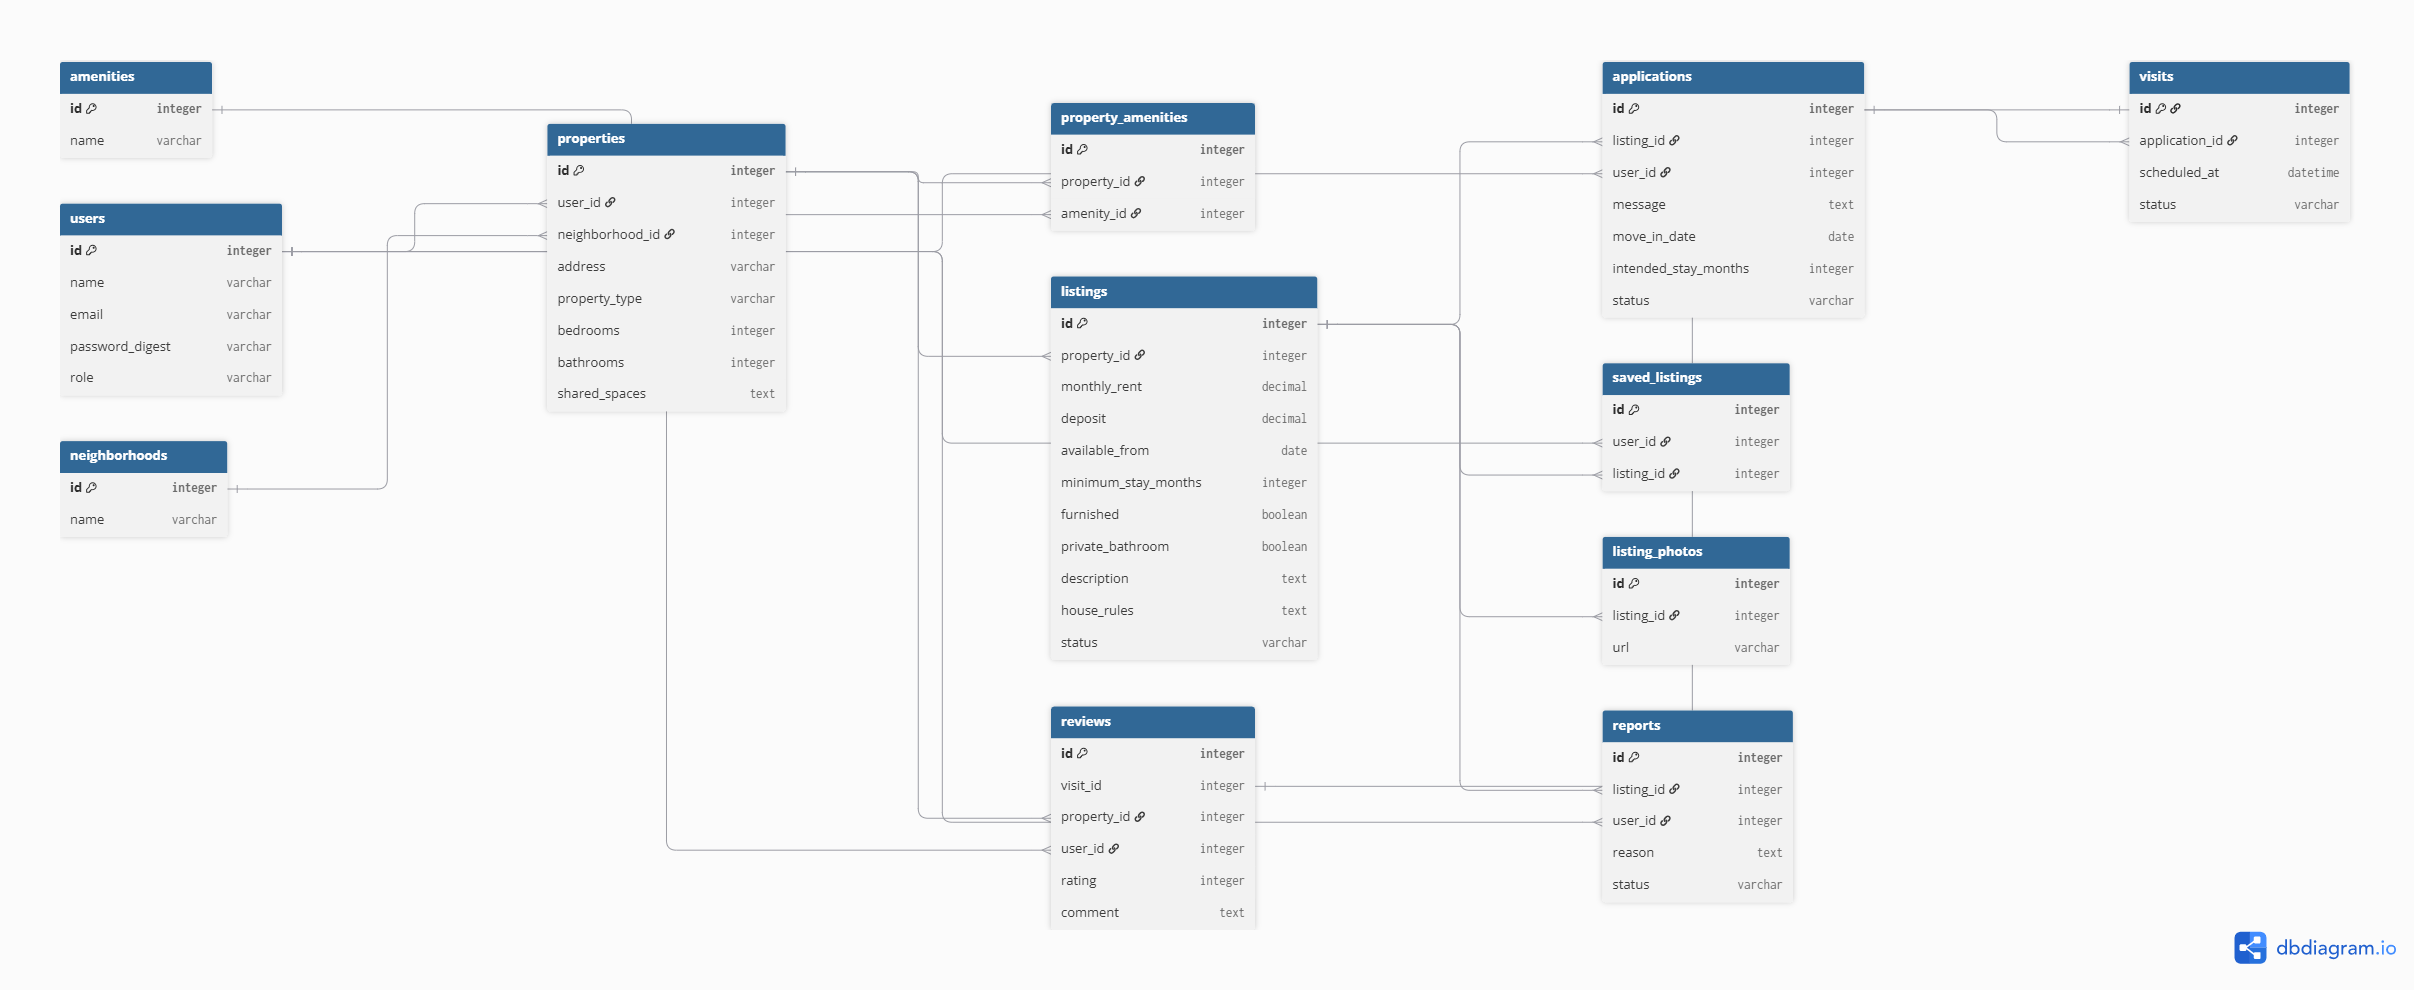
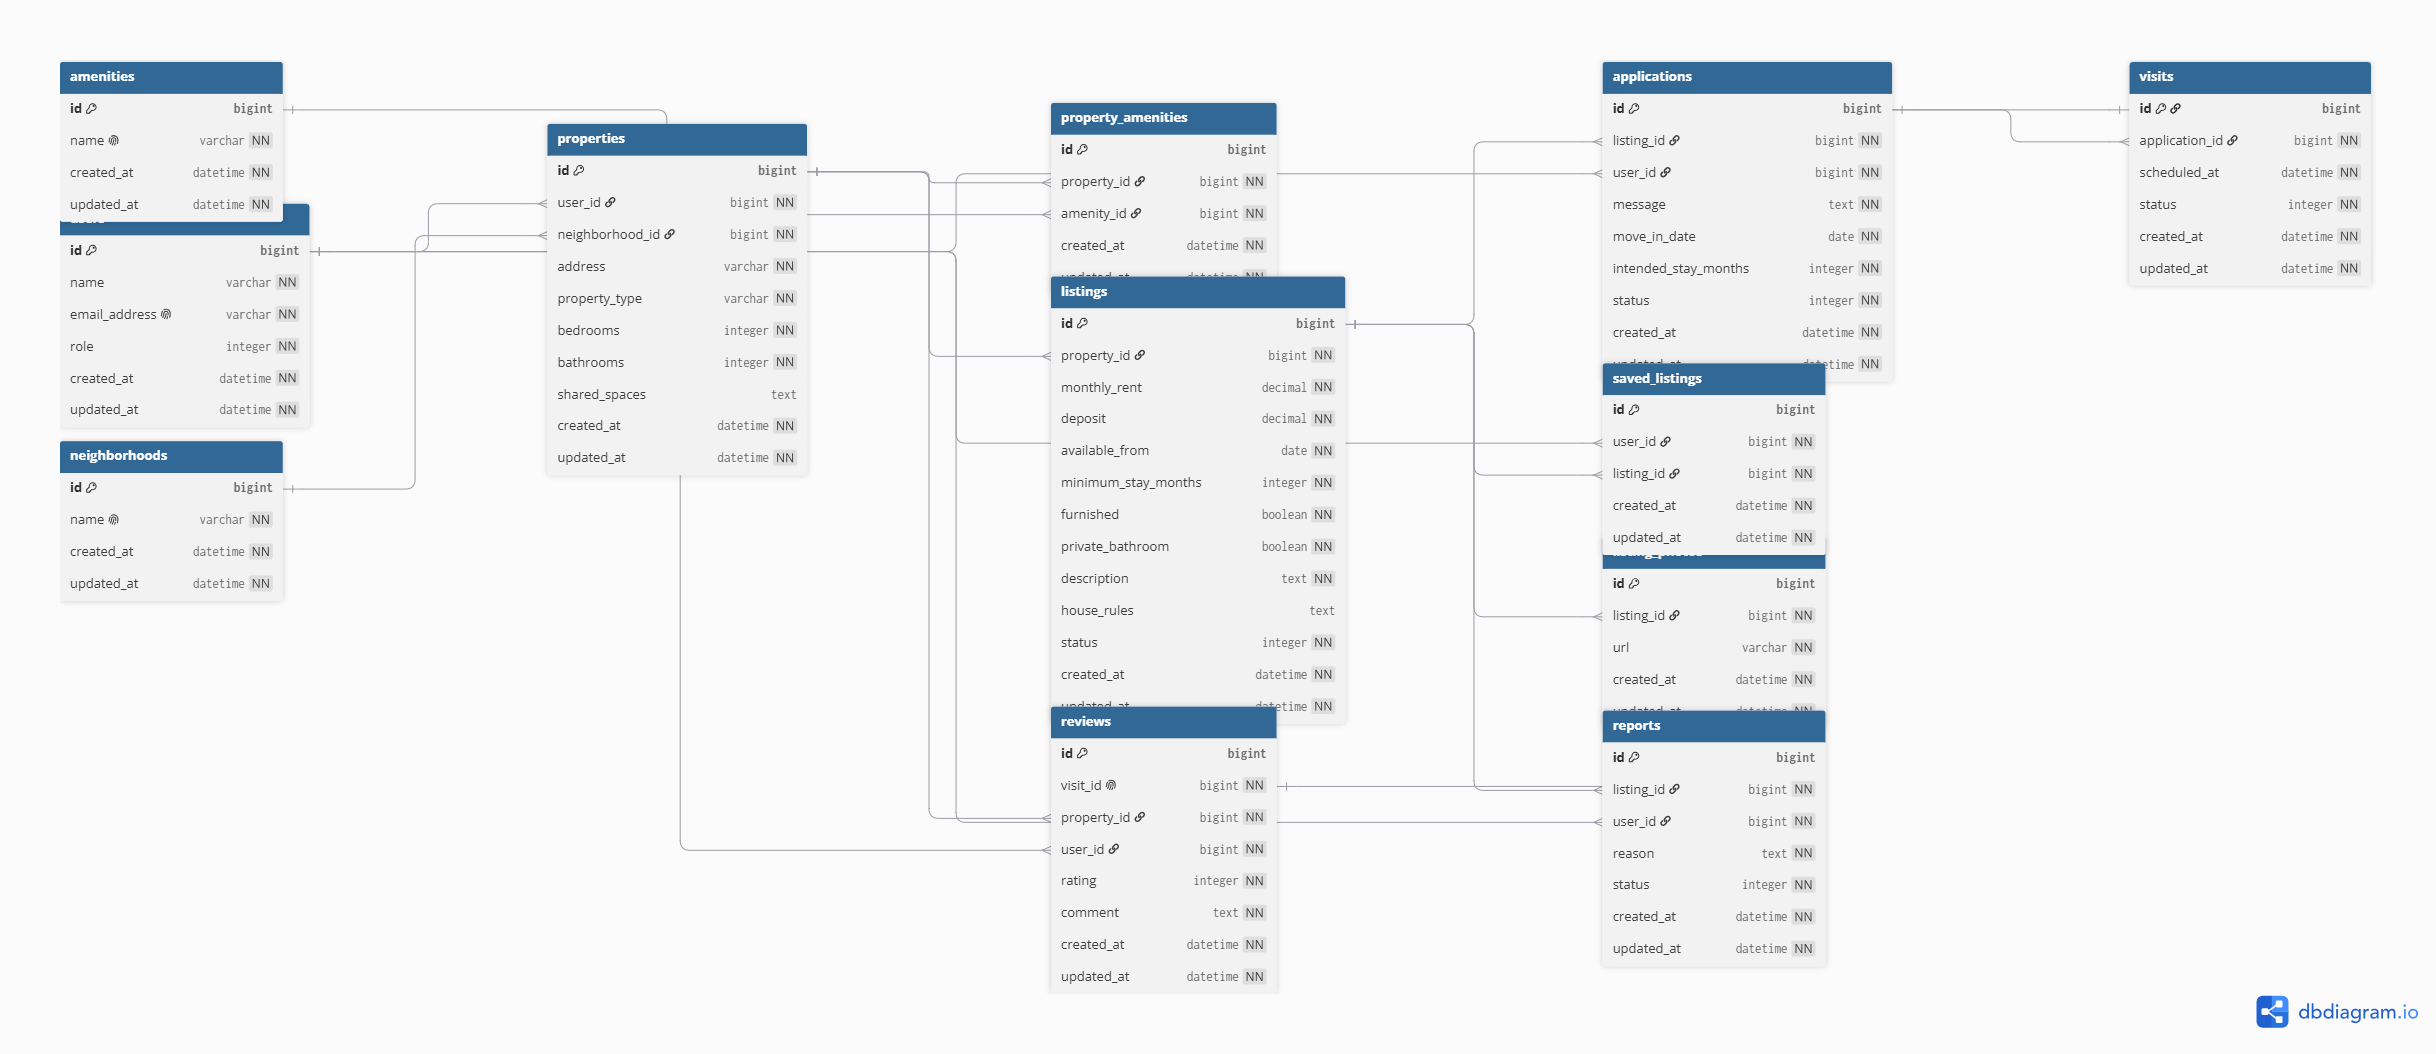
Readme y diagrama actualizado

diff --git a/README.md b/README.md
@@ -1,34 +1,36 @@
 # Roomies
-**Names:** Juan Pablo Saavedra and Julian Rodriguez
- 
-## Assignment 1
- 
-This first assignment is analysis, design and static HTML
- 
-| Deliverable | Where |
-|---|---|
-| Landing page | `index.html`, `css/style.css`, `img/` |
-| User stories | `docs/user-stories.md` |
-| Domain model | `docs/domain-model.png` |
-| Design decisions | `docs/design-decisions.md` |
- 
-## How to open the landing page
- 
+
+Web Technologies 
+
+**Members:** Juan Pablo Saavedra · Julian Rodriguez
+
+## Setup
+
+Requires Ruby 4.0.4, PostgreSQL, Node.js and Yarn.
+
 ```bash
-git clone https://github.com/jpsaavedra3/Proyecto.Webtech.git
-cd Proyecto.Webtech
+bundle install
+yarn install
+bin/rails db:create
+bin/rails db:migrate
+bin/rails db:seed
 ```
- 
-Bootstrap 5.3 is loaded from a CDN, so the page needs a connection the first time it is
-opened. The photographs are in `img/` and are part of the repository.
- 
-## Repository structure 
+
+## Run
+
+```bash
+bin/dev
 ```
-index.html                  landing page
-css/style.css               the two custom rules on top of Bootstrap
-img/                        photographs used on the landing page
-docs/user-stories.md        user stories for the three roles
-docs/domain-model.png       relational diagram
-docs/design-decisions.md    decisions taken while modelling
-```
- 
+
+Then open http://localhost:3000.
+
+## Domain model
+
+Diagram: `docs/domain-model.png` ([dbdiagram.io](https://dbdiagram.io/d/6aa8004c36f99825648c9d10)).
+
+Changes since Assignment 1:
+
+- `users.email` is now `email_address`, the name the Rails 8 authentication generator uses in Assignment 4.
+- The `status` columns and `users.role` are integers, because they are implemented as enums.
+- Every table has `created_at` and `updated_at`, which Rails maintains.
+- Required columns are `NOT NULL`, and unique indexes enforce the domain rules: one application per seeker and listing, and one review per visit.
